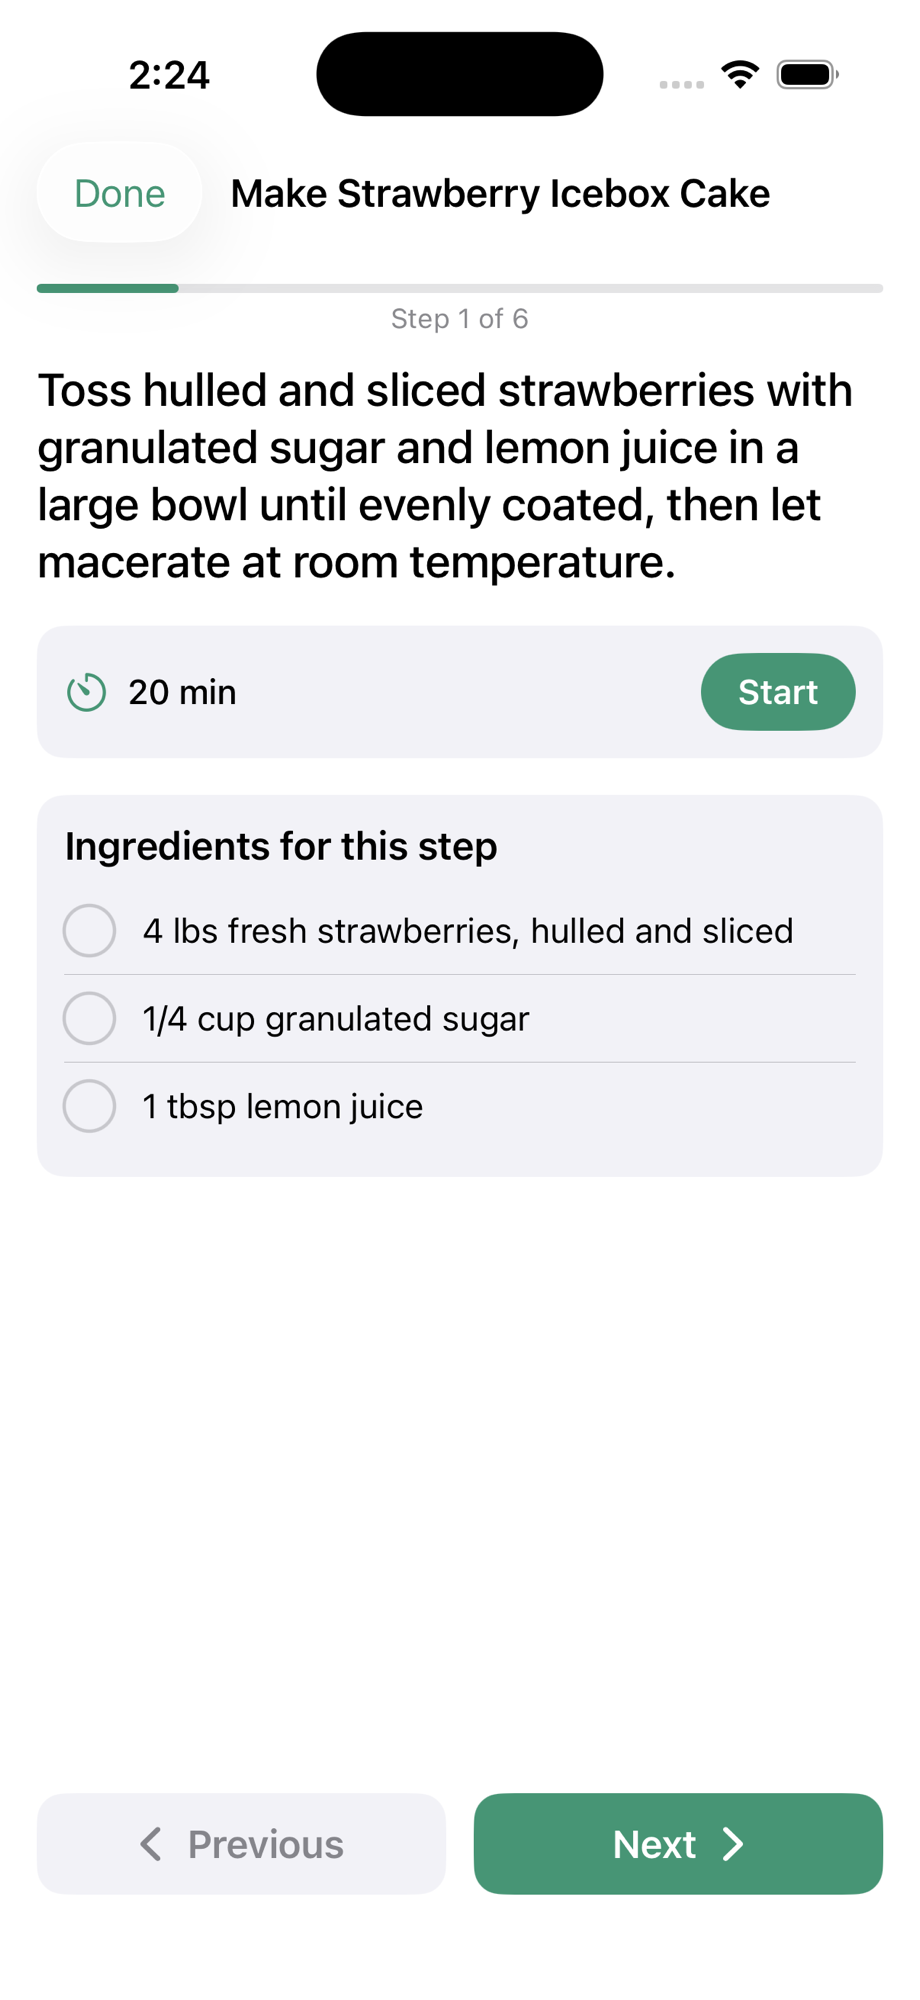
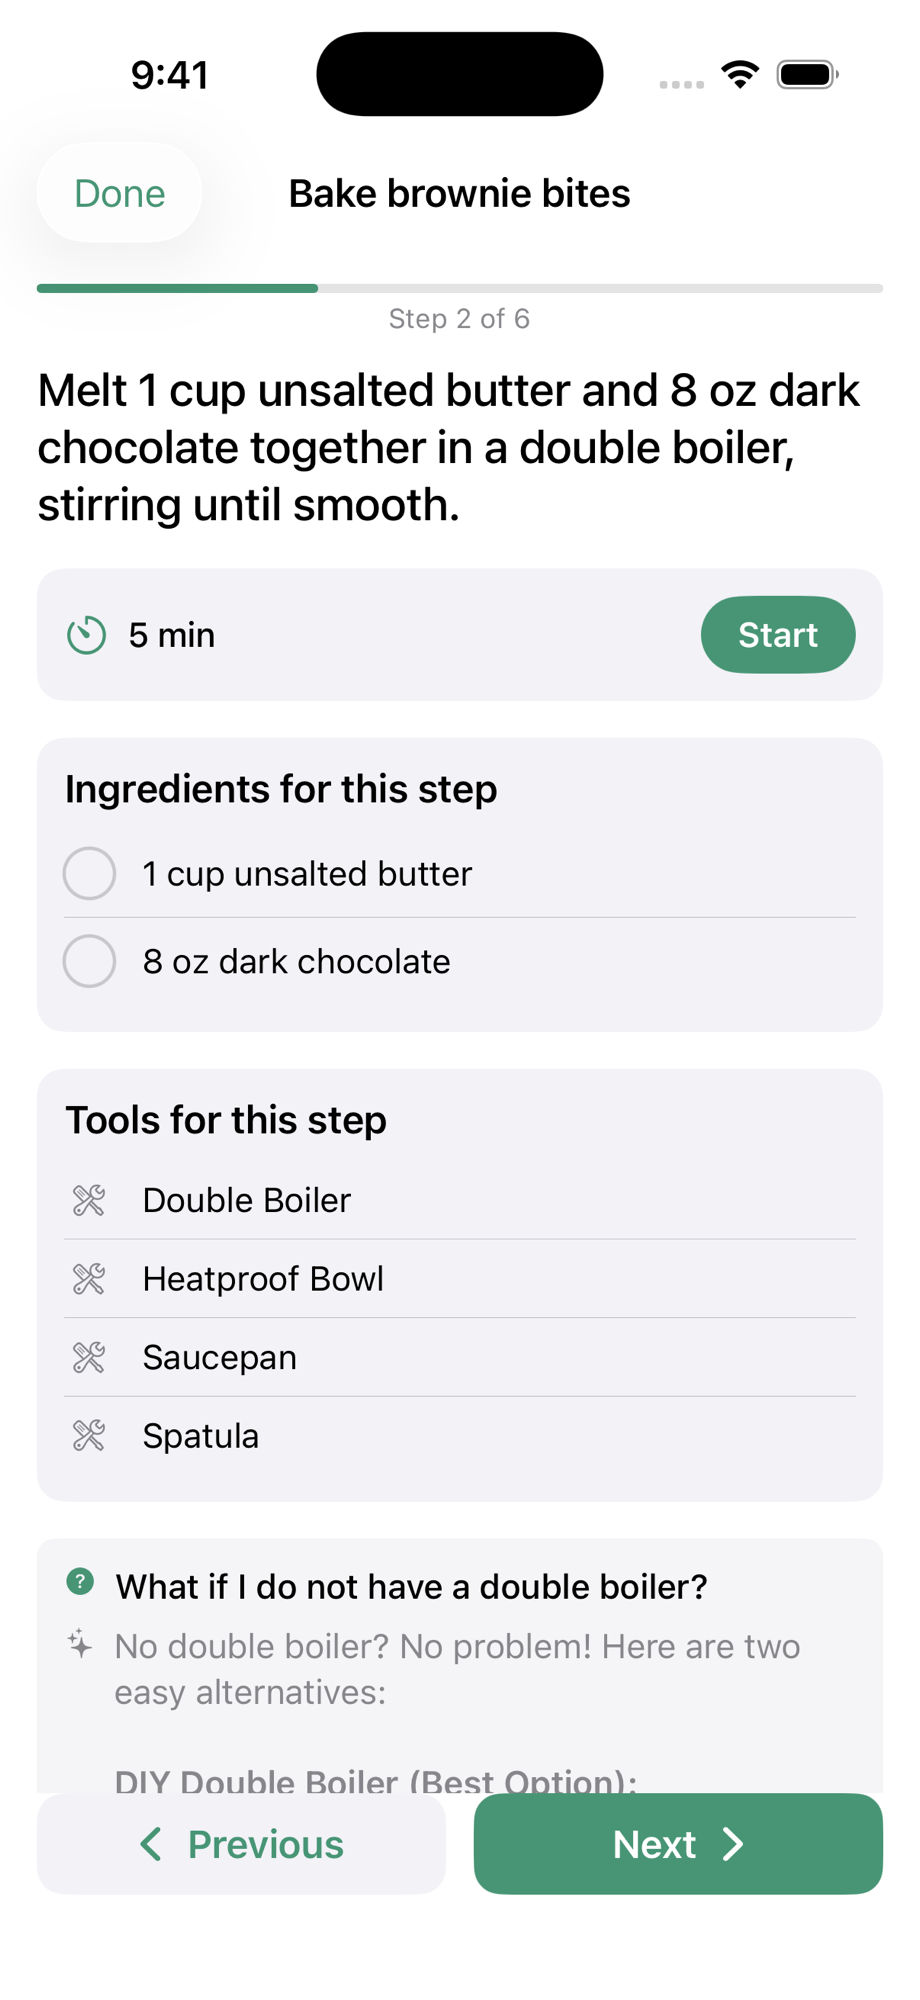
Update activity view screenshots with tools, ingredients, and Ask About Step Q&A

diff --git a/guide.html b/guide.html
@@ -633,9 +633,15 @@
         </ul>
         <p>Swipe between micro-steps with Previous and Next. Each micro-step shows only its own ingredients and tools. The Finish button on the last micro-step marks the whole timeline step complete.</p>
 
-        <div class="screenshot">
-            <img src="screenshots/12g-activity-view.png" alt="Activity view: focused micro-step with timer and step-specific ingredients">
-            <div style="font-size: 0.8em; color: #888; margin-top: 8px;">One micro-step at a time with its own ingredients</div>
+        <div class="screenshot" style="display: flex; gap: 12px; justify-content: center; flex-wrap: wrap;">
+            <div style="text-align: center;">
+                <img src="screenshots/12g-activity-view.png" alt="Activity view with ingredients, tools, and Ask About Step Q&A answer">
+                <div style="font-size: 0.8em; color: #888; margin-top: 8px;">Ingredients, tools, &amp; AI Q&amp;A answer</div>
+            </div>
+            <div style="text-align: center;">
+                <img src="screenshots/12g2-activity-qa.png" alt="Activity view with Ask About Step input showing a typed question">
+                <div style="font-size: 0.8em; color: #888; margin-top: 8px;">Ask a question about this step</div>
+            </div>
         </div>
 
         <h3>Shopping List</h3>
